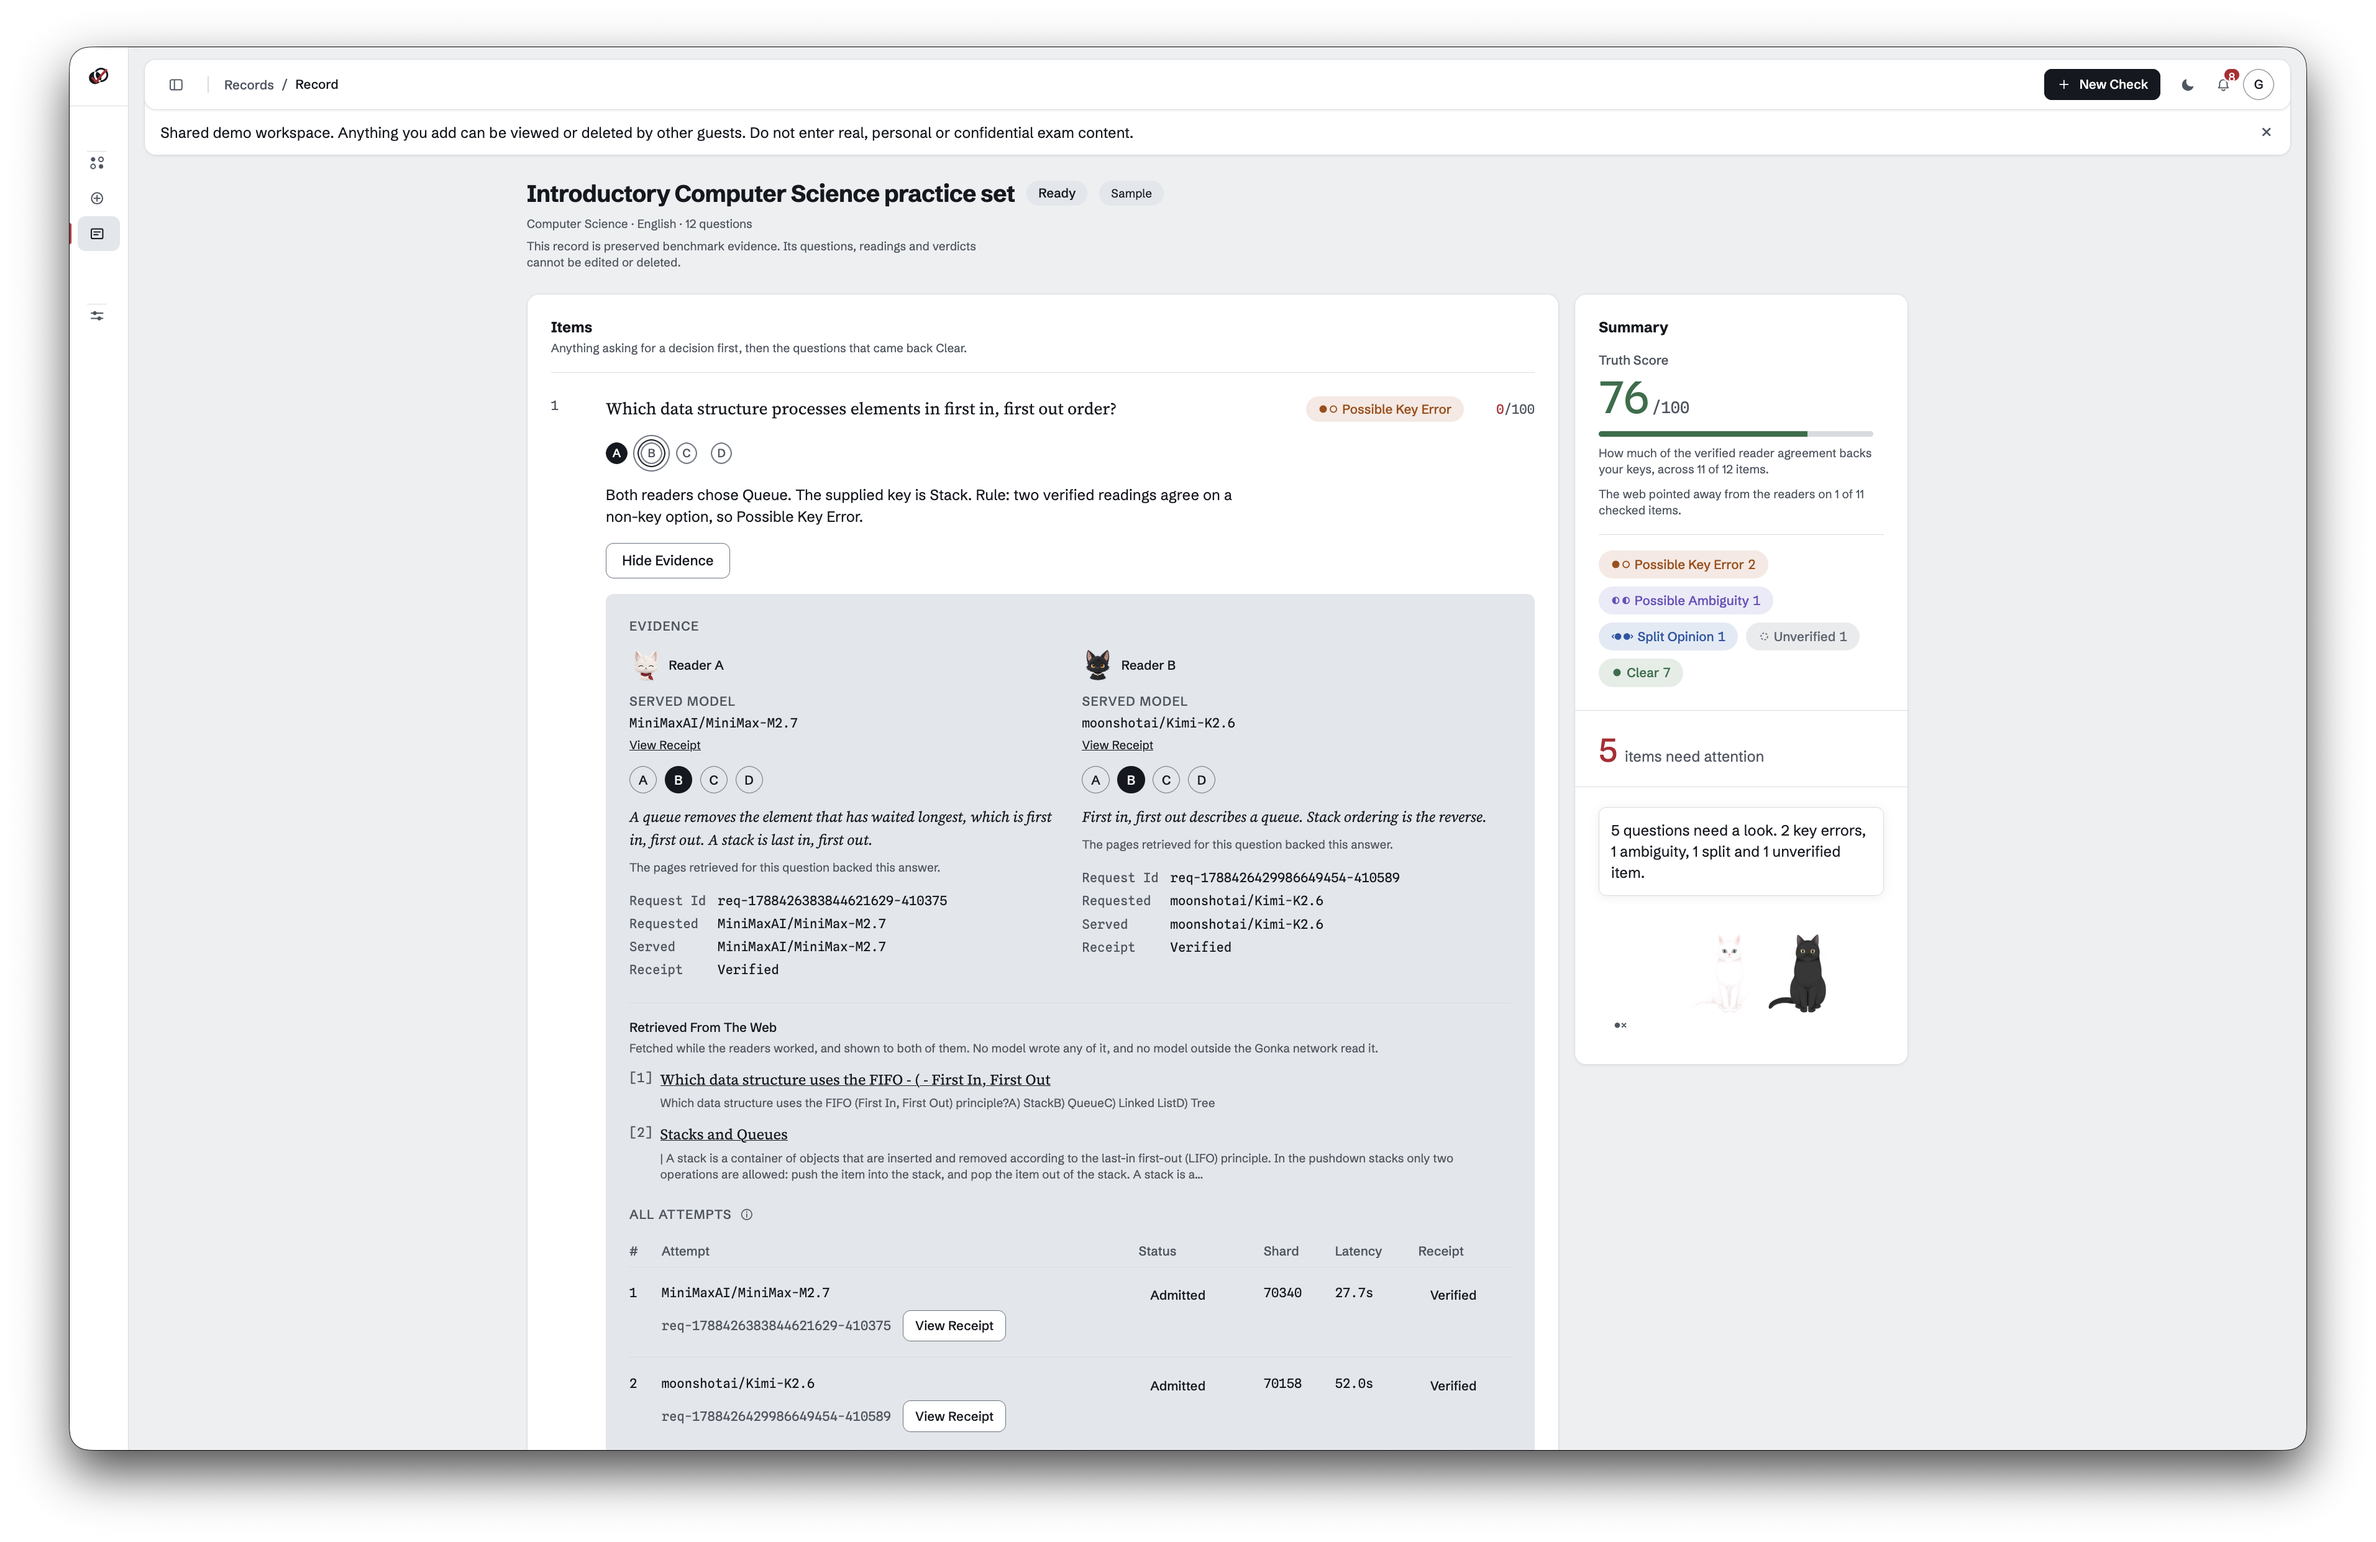
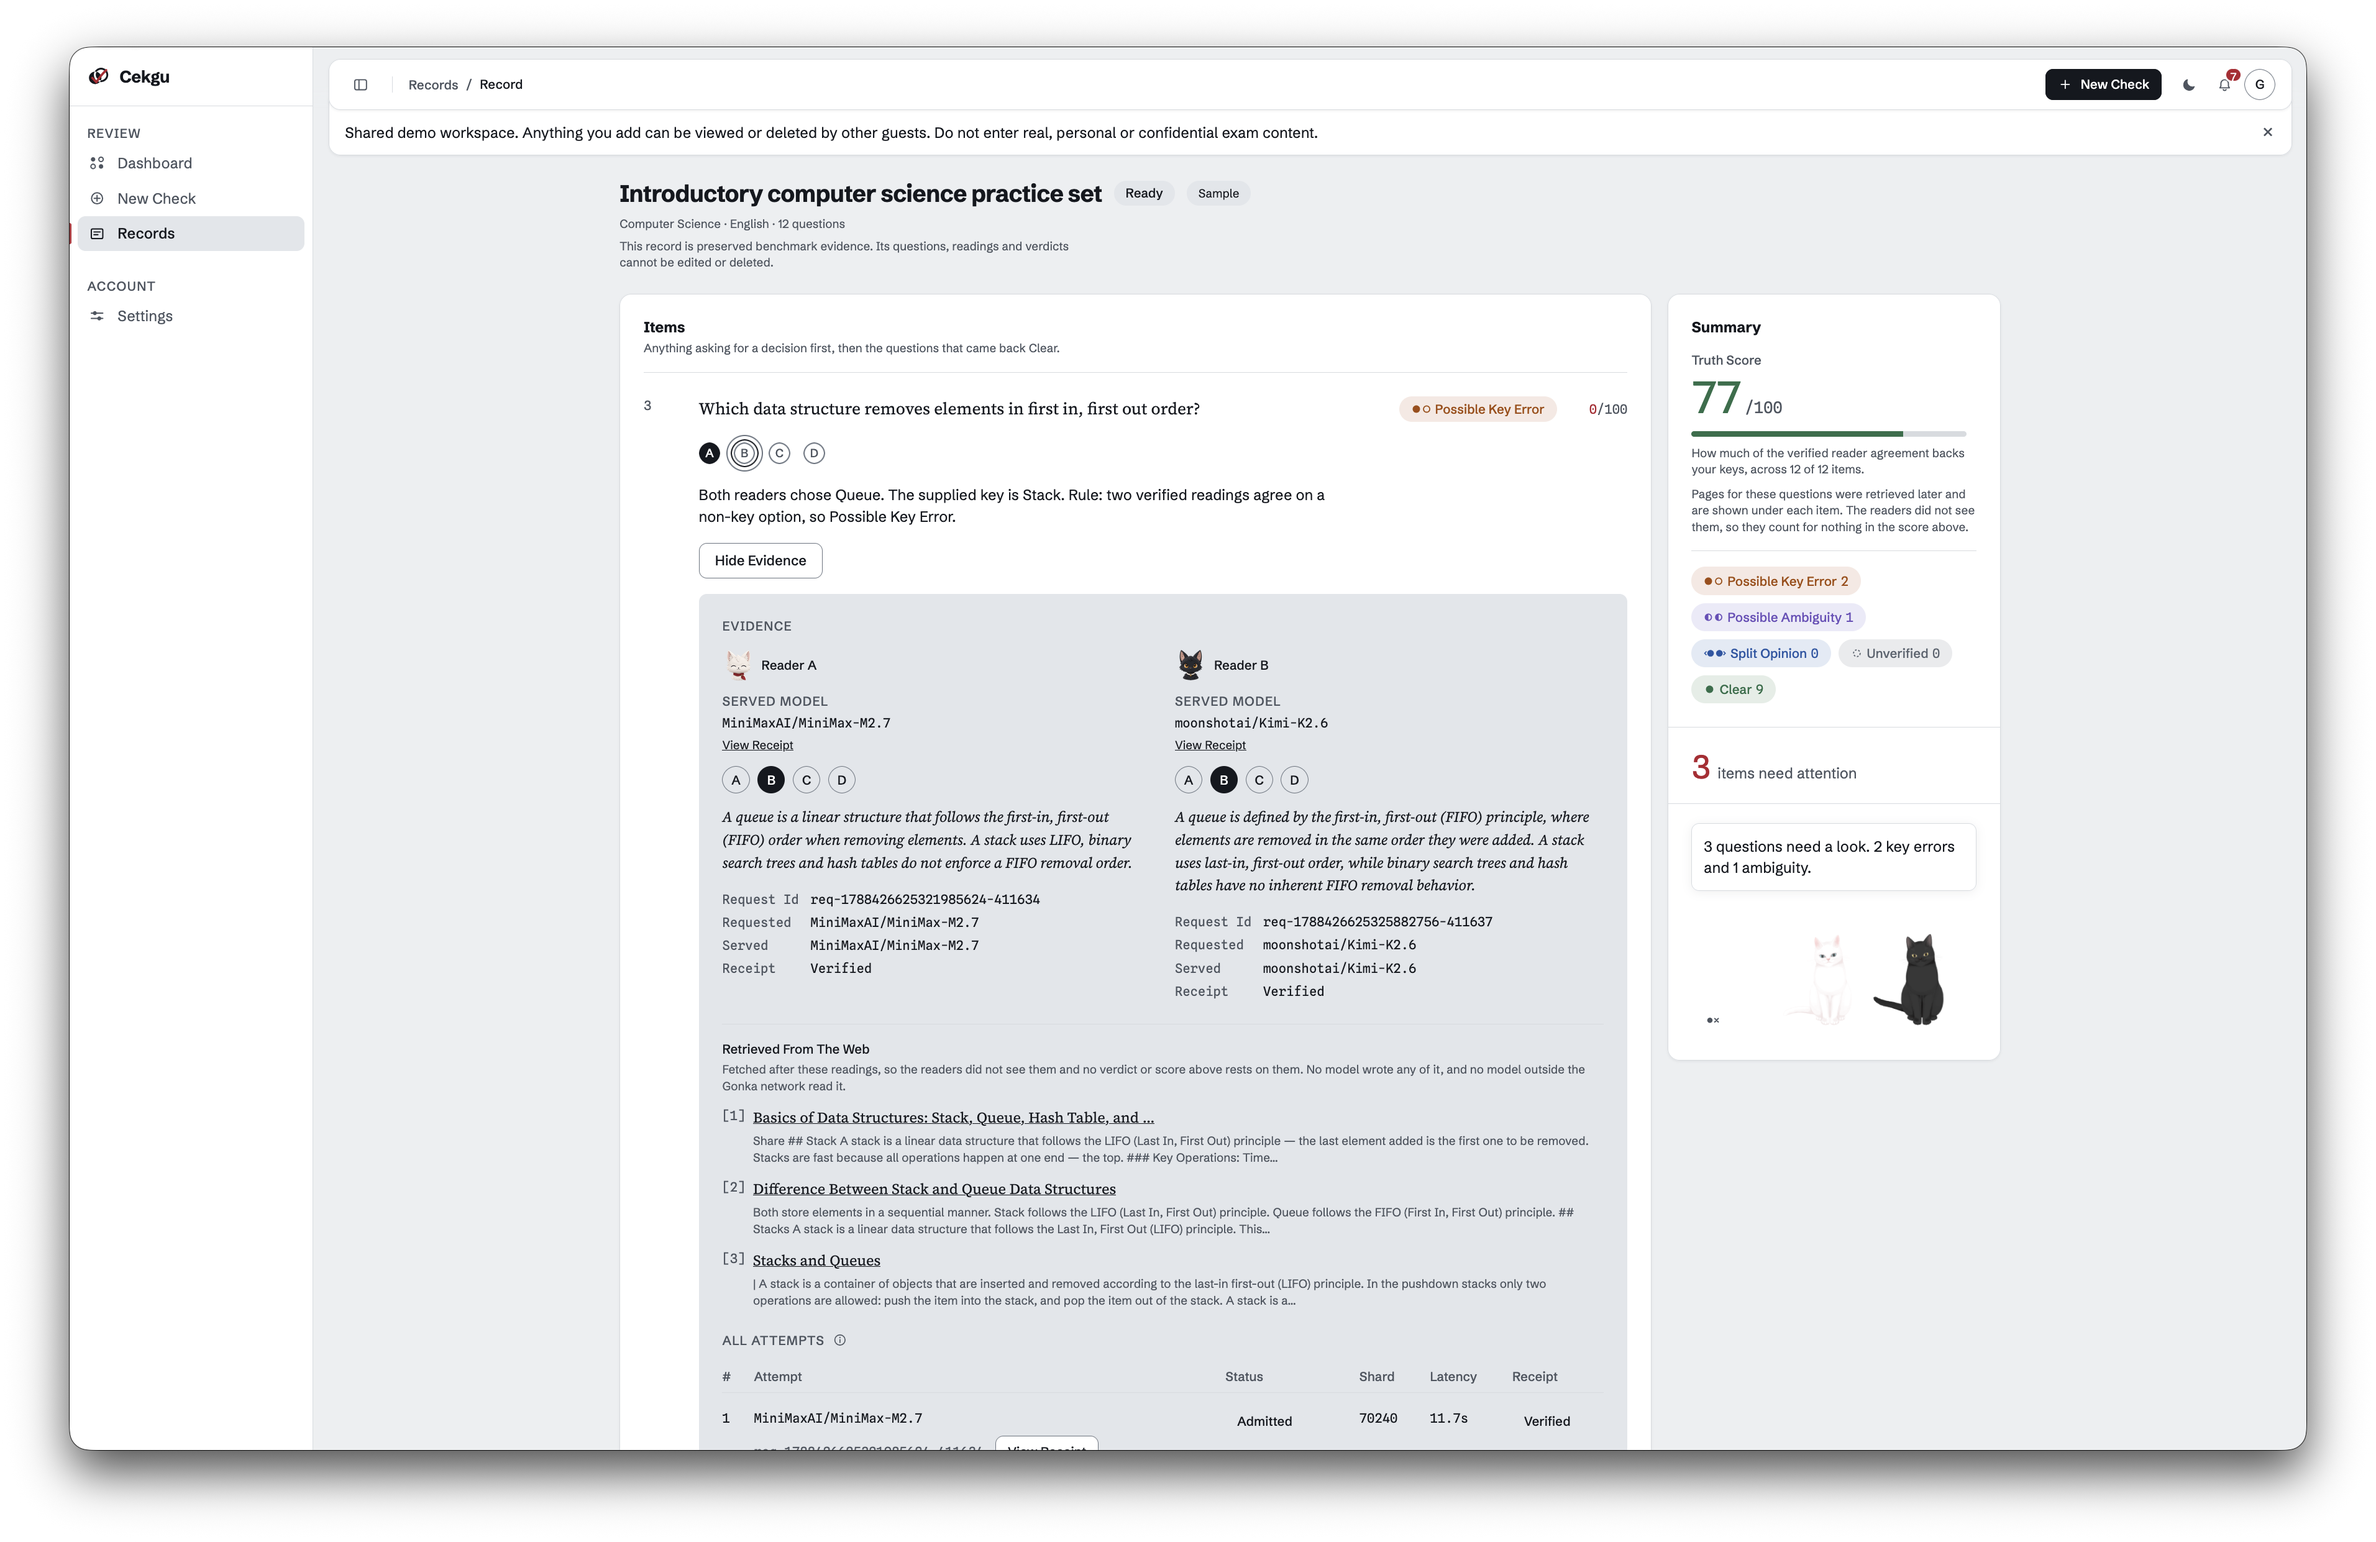
docs(readme): use the deployed sample capture, retaken after the re-seed
Retaken on the deployed site now that #307 landed and the sample carries its
retrieved pages. It is the capture the README has been reaching for through four
rewrites: the real sample, on production, showing the pages and the line saying
the readers did not see them.

The alt text says which capture this is, so the next person does not have to
open the file to find out.

diff --git a/docs/README.md b/docs/README.md
@@ -104,7 +104,7 @@ The product is built for practice papers and synthetic examples, not for confide
   </tr>
   <tr>
     <td width="50%"><img src="assets/dashboard.png" alt="The account dashboard" width="100%"></td>
-    <td width="50%"><img src="assets/item-evidence.png" alt="Item evidence showing two served models, two request ids, receipt states, the pages retrieved from the web and every attempt" width="100%"></td>
+    <td width="50%"><img src="assets/item-evidence.png" alt="Item evidence on the deployed sample: two served models, two request ids, receipt states, and the pages retrieved from the web, labelled as fetched after the readings" width="100%"></td>
   </tr>
   <tr>
     <td><sub>The dashboard: verified readings against total, the verdict breakdown, and each family's share of the work.</sub></td>
